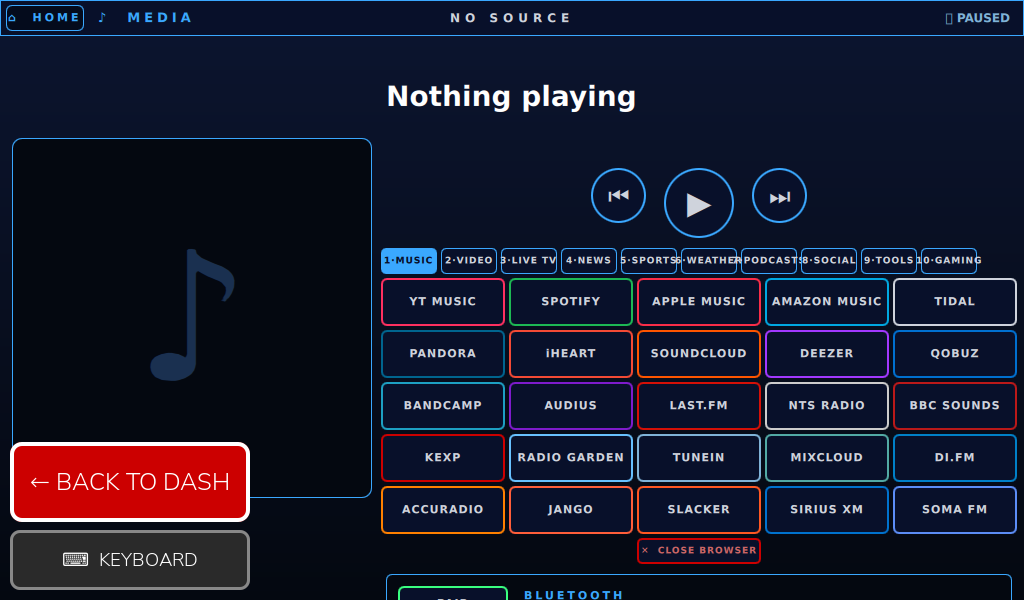
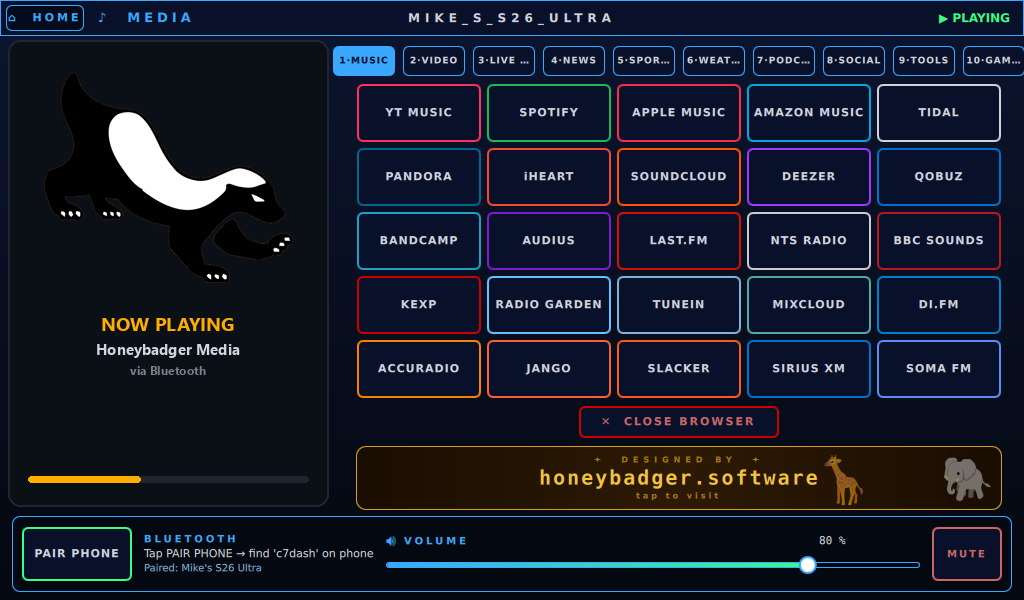
Landing page reflects the dash studio + refreshed multimedia screenshot
- Home Gauge Builder card + news teaser now describe the whole-dash screen
  designer, 19+ styles, numeric/trend gauges, and the animated symbol library;
  card links straight to the screen designer
- Updated c7-media.png from a fresh live Pi capture (current multimedia UI:
  10 tabs, 25-app music grid, honeybadger.software banner, BT + volume).
  Swapped the now-playing album art for the badger to keep it copyright-clean.
  Cache-bust ?v=2.

diff --git a/index.html b/index.html
@@ -131,8 +131,8 @@
         <div class="sc-media contain"><img src="assets/images/gauge-hero.svg" alt="A premium digital gauge designed in the Gauge Builder"></div>
         <span class="sc-badge tool">LIVE · TRY IT NOW</span>
         <h3>Gauge Builder</h3>
-        <p>Design your own digital gauge cluster in the browser — pick the style, bezel, face material, needle, and units. What you build renders pixel-identical on the physical dashboard. No bait-and-switch.</p>
-        <a href="builder.html" class="sc-link">Open the Gauge Builder →</a>
+        <p>Design a <strong>whole dash</strong>, not just one gauge. A drag-and-drop screen designer, <strong>19+ gauge styles</strong> (dials, numeric readouts, trend charts, race strips), 27 live signals, 12 color themes, plus an animated symbol library — nitrous bottle, controller, telltales. What you build ships pixel-identical to your dash.</p>
+        <a href="designer.html" class="sc-link">Open the screen designer →</a>
       </div>
       <div class="showcase-card">
         <div class="sc-media"><img src="assets/images/maguire-blender.jpg" alt="A Maguire WSB blender monitored live on the plant floor"></div>
@@ -225,8 +225,8 @@
         <div class="post-stripe"></div>
         <div class="post-body">
           <span class="post-tag">GAUGE BUILDER</span>
-          <h3>The Gauge Builder goes live</h3>
-          <p>Design a custom digital cluster in your browser — style, bezel, face material, needle, units — and it renders identically on the dash.</p>
+          <h3>From one gauge to a whole-dash studio</h3>
+          <p>It grew up fast — a drag-and-drop screen designer, 19+ gauge styles, numeric readouts, trend charts, and an animated symbol library (nitrous bottle, controller, telltales). Build a whole cluster; it ships pixel-identical.</p>
           <span class="post-date">Read more on the News page →</span>
         </div>
       </article>

diff --git a/c7-dashboard.html b/c7-dashboard.html
@@ -93,7 +93,7 @@
     </div>
 
     <div class="feature-row flip">
-      <div class="feature-media"><img src="assets/images/c7-media.png" alt="C7 multimedia head unit — 250 apps across 10 tabs"></div>
+      <div class="feature-media"><img src="assets/images/c7-media.png?v=2" alt="C7 multimedia head unit — 250 apps across 10 tabs · music, video, live TV"></div>
       <div>
         <h3>📺 250-app multimedia head unit</h3>
         <p>Ten tabs, twenty-five apps each: streaming music, video, live TV, news, sports, weather + maps, podcasts, social, productivity, and browser games. Netflix / Prime / Disney+ DRM works — Widevine is pre-installed. Bluetooth audio routes straight to your OEM stereo, no aux cable.</p>